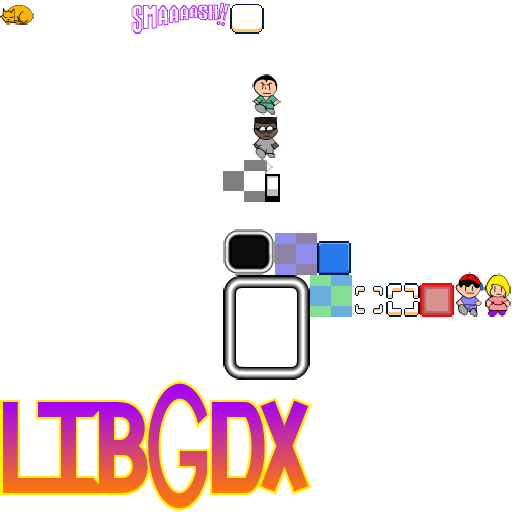
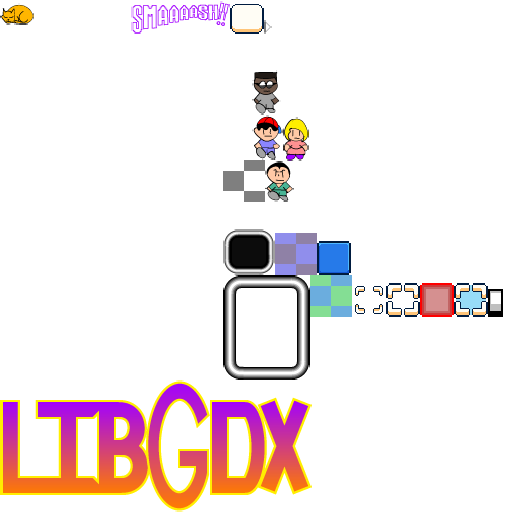
Terrain
Created terrain for background

Changed region(s): [[0.4688, 0.125, 0.625, 0.4062], [0.875, 0.5312, 1.0, 0.625], [0.5, 0.0312, 0.5312, 0.0625]]

diff --git a/core/src/com/rondeo/bump/GameScreen.java b/core/src/com/rondeo/bump/GameScreen.java
@@ -10,10 +10,6 @@ import com.badlogic.gdx.ScreenAdapter;
 import com.badlogic.gdx.graphics.OrthographicCamera;
 import com.badlogic.gdx.graphics.Texture;
 import com.badlogic.gdx.graphics.g2d.TextureRegion;
-import com.badlogic.gdx.maps.tiled.TiledMap;
-import com.badlogic.gdx.maps.tiled.TiledMapRenderer;
-import com.badlogic.gdx.maps.tiled.TmxMapLoader;
-import com.badlogic.gdx.maps.tiled.renderers.OrthogonalTiledMapRenderer;
 import com.badlogic.gdx.math.Vector2;
 import com.badlogic.gdx.physics.box2d.Box2D;
 import com.badlogic.gdx.physics.box2d.Box2DDebugRenderer;
@@ -50,8 +46,7 @@ public class GameScreen extends ScreenAdapter {
     InputMultiplexer inputMultiplexer;
 
     Texture snailTexture;
-    TiledMap tiledMap;
-    TiledMapRenderer tiledMapRenderer;
+    Texture terrainTexture;
 
     public GameScreen() {
         snailTexture = new Texture( Gdx.files.internal( "snail.png" ) );
@@ -65,8 +60,10 @@ public class GameScreen extends ScreenAdapter {
         stage = new Stage( new ExtendViewport( vWidth, vHeight, camera = new OrthographicCamera( vWidth, vHeight ) ) );
 
         // TileMap
-        tiledMap = new TmxMapLoader().load( "terrain.tmx" );
-        tiledMapRenderer = new OrthogonalTiledMapRenderer( tiledMap );
+        terrainTexture = new Texture( Gdx.files.internal( "terrain.png" ) );
+        Image terrain = new Image( new TextureRegion( terrainTexture ) );
+        terrain.setBounds( -400, -300, 1800, 1100 );
+        stage.addActor( terrain );
 
         debugRenderer = new Box2DDebugRenderer();
     }
@@ -190,11 +187,11 @@ public class GameScreen extends ScreenAdapter {
         );
 
         stage.addListener( new InputListener() {
-            float touchY;
+            float touchX, touchY;
             Snail snail;
             Image indicator;
             {
-                indicator = new Image( skin.getDrawable( "new-select" ) );
+                indicator = new Image( skin.getDrawable( "select-overlay" ) );
                 indicator.setVisible( false );
                 stage.addActor( indicator );
                 indicator.setSize( 100, 100 );
@@ -205,7 +202,7 @@ public class GameScreen extends ScreenAdapter {
                 // Show indicator
                 if( x > 0 && x < vWidth && y > 0 && y < vHeight ) {
                     indicator.setVisible( true );
-                    indicator.setPosition( x < vWidth/2 ? 0 : vWidth - 100, (y - y%100) );
+                    indicator.setPosition( x - x%100, y - y%100 );
                     return true;
                 } else {
                     indicator.setVisible( false );
@@ -216,7 +213,7 @@ public class GameScreen extends ScreenAdapter {
             public void touchDragged(InputEvent event, float x, float y, int pointer) {
                 if( x > 0 && x < vWidth && y > 0 && y < vHeight ) {
                     indicator.setVisible( true );
-                    indicator.setPosition( x < vWidth/2 ? 0 : vWidth - 100, (y - y%100) );
+                    indicator.setPosition( x - x%100, y - y%100 );
                 } else {
                     indicator.setVisible( false );
                 }
@@ -232,11 +229,15 @@ public class GameScreen extends ScreenAdapter {
                 touchY = Math.max( 0, touchY );
                 touchY = Math.min( vHeight - 1, touchY );
                 touchY = (touchY - touchY%100) + 50;
+                touchX = x;
+                touchX = Math.max( 0, touchX );
+                touchX = Math.min( vWidth - 1, touchX );
+                touchX = ( touchX - touchX%100 ) + 50;
                 if( x > vWidth/2 ) {
                     if( readyB == null )
                         return;
                     snail = readyB;
-                    snail.setY( touchY );
+                    snail.setPosition( touchX, touchY );
                     snail.pack();
                     stage.addActor( snail );
                     manaB -= snail.manaConsumption;
@@ -251,7 +252,7 @@ public class GameScreen extends ScreenAdapter {
                     if( readyA == null )
                         return;
                     snail = readyA;
-                    snail.setY( touchY );
+                    snail.setPosition( touchX, touchY );
                     snail.pack();
                     stage.addActor( snail );
                     manaA -= snail.manaConsumption;
@@ -328,9 +329,6 @@ public class GameScreen extends ScreenAdapter {
 
     @Override
     public void render(float delta) {
-
-        tiledMapRenderer.setView( camera );
-        tiledMapRenderer.render();
         
         stage.act( delta );
         stage.draw();
@@ -356,6 +354,7 @@ public class GameScreen extends ScreenAdapter {
         skin.dispose();
         
         snailTexture.dispose();
+        terrainTexture.dispose();
         cardTexture.dispose();
         manaTexture.dispose();
         timer.cancel();

diff --git a/core/src/com/rondeo/bump/entity/Snail.java b/core/src/com/rondeo/bump/entity/Snail.java
@@ -1,7 +1,6 @@
 package com.rondeo.bump.entity;
 
 import com.badlogic.gdx.Gdx;
-import com.badlogic.gdx.graphics.Color;
 import com.badlogic.gdx.graphics.g2d.Animation;
 import com.badlogic.gdx.graphics.g2d.Batch;
 import com.badlogic.gdx.graphics.g2d.TextureRegion;
@@ -129,26 +128,16 @@ public class Snail extends Actor implements Entity {
     }
 
     final int scale = 5;
-    Color originalColor = new Color();
 
     @Override
     public void draw(Batch batch, float parentAlpha) {
-        if( flip ) {
-            originalColor.set( batch.getColor() );
-            batch.setColor( batch.getColor().add( .5f, -.5f, -.5f, 0 ) );
-        }
         batch.draw( 
             walkAnimation.getKeyFrame( deltaTime ), 
             flip ? getX() + getWidth() + ( 10 + scale*power) : getX() - ( 10 + scale*power), 
             getY(), 
             flip ? - getWidth() - ( 20 + scale*power) : getWidth() + ( 20 + scale*power), 
             getHeight() + ( 20 + scale*power) );
-        if( flip ) {
-            batch.setColor( originalColor );
-        }
         //label.draw( batch, parentAlpha );
-
-        super.draw( batch, parentAlpha );
     }
 
     public Snail convertToSnail( Object userData ) {
